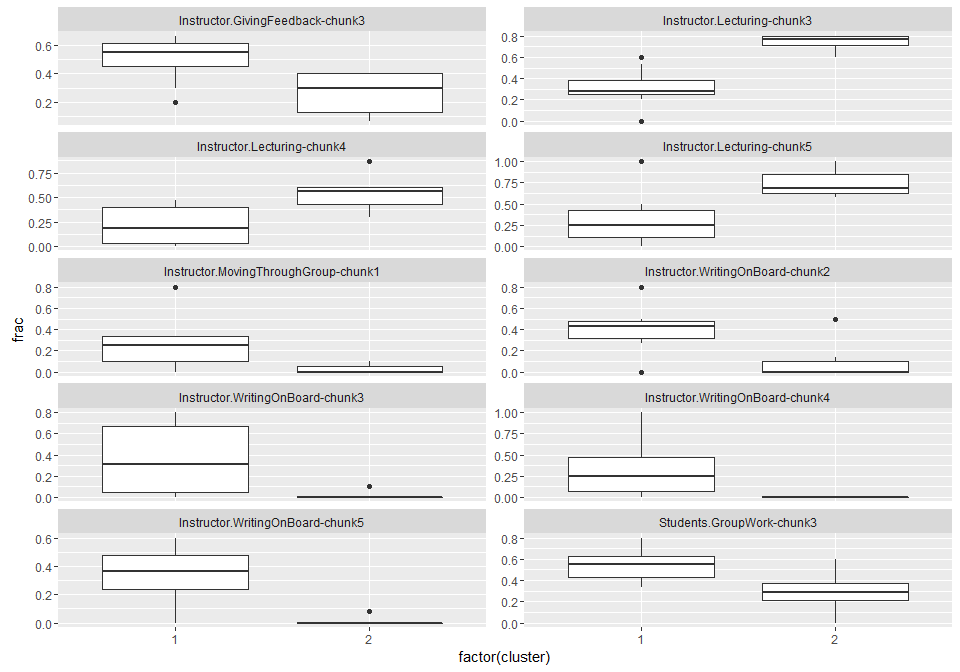
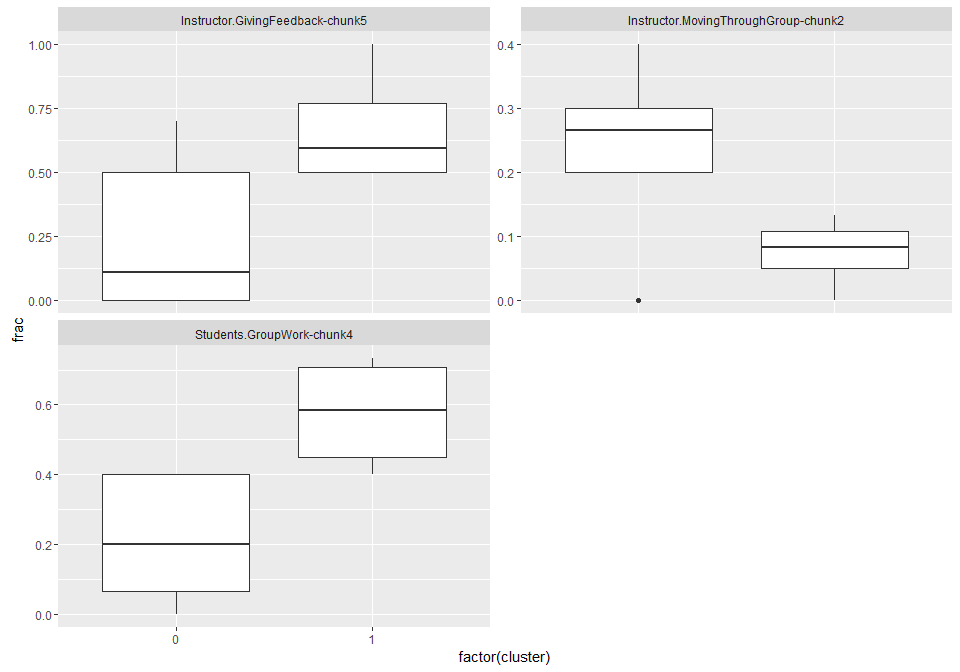
Updated rule association mining plots

diff --git a/COPUS-paper-10minsegments.md b/COPUS-paper-10minsegments.md
@@ -1,7 +1,7 @@
 # COPUS Analysis for publication
 Tony Hui  
 
-# Processing the data
+## 1 Processing the data
 
 
 ```
@@ -10,9 +10,9 @@ Tony Hui
 
 
 
-## Cluster ignoring time
+## 2 Cluster ignoring time
 
-### Cluster of all classes
+### 2.1 Cluster of all classes
 
 The x-axis labels represent course-instructor-semester pairings:
 
@@ -24,53 +24,51 @@ Fractional time was calculated as a mean of all observations
 
 ![](COPUS-paper-10minsegments_files/figure-html/all_years_all_times_cluster-1.png)
 
-### Cluster of first-year classes
+### 2.2 Cluster of first-year classes
 
 
 
 ![](COPUS-paper-10minsegments_files/figure-html/first_year_all_times_cluster-1.png)
 
-## Cluster, slicing time into 10-minute intervals
+## 3 Cluster, slicing time into 10-minute intervals
 
-### All classes, sliced, clustered
+### 3.1 All classes, sliced, clustered
 
 
 
 ![](COPUS-paper-10minsegments_files/figure-html/all_years_sliced_times_cluster-1.png)
 
-### first year classes, sliced, clustered
+### 3.2 first year classes, sliced, clustered
 
 
 
 ![](COPUS-paper-10minsegments_files/figure-html/first_year_sliced_times_cluster-1.png)
 
-## Cluster within classes using different chunks as features
+## 4 Cluster within classes using different chunks as features
 
-### first year and second year classes, sliced, clustered based on classes X chunk*metric
+### 4.1 first year and second year classes, sliced, clustered based on classes X chunk*metric
 
 
 
 ![](COPUS-paper-10minsegments_files/figure-html/jr_sliced_times_cluter_rows-1.png)
 
-#### No clustering on columns
+### 4.2 No clustering on columns
 
 ![](COPUS-paper-10minsegments_files/figure-html/unnamed-chunk-8-1.png)
 
-#### No clustering on rows
+### 4.3 No clustering on rows
 
 ![](COPUS-paper-10minsegments_files/figure-html/unnamed-chunk-9-1.png)
 
-### first year only
+### 4.4 first year only
 
 ![](COPUS-paper-10minsegments_files/figure-html/unnamed-chunk-10-1.png)
 
-## Rule association mining
+## 5 Rule association mining
 
-From first and second year classes
+From first year classes only
 
-![](COPUS-paper-10minsegments_files/figure-html/unnamed-chunk-11-1.png)
 
-**Cluster one** on the right, **cluster two** on the left
 
 
 ```
@@ -80,20 +78,16 @@ From first and second year classes
 See which "features" are significantly different between the two clusters
 
 
-|measure                              |  pval|   fdr|
-|:------------------------------------|-----:|-----:|
-|Instructor.Lecturing-chunk3          | 0.000| 0.000|
-|Instructor.WritingOnBoard-chunk5     | 0.003| 0.117|
-|Instructor.Lecturing-chunk4          | 0.009| 0.342|
-|Instructor.Lecturing-chunk5          | 0.009| 0.342|
-|Instructor.GivingFeedback-chunk3     | 0.019| 0.684|
-|Instructor.WritingOnBoard-chunk3     | 0.022| 0.770|
-|Instructor.WritingOnBoard-chunk2     | 0.024| 0.816|
-|Instructor.WritingOnBoard-chunk4     | 0.030| 0.990|
-|Students.GroupWork-chunk3            | 0.035| 1.000|
-|Instructor.MovingThroughGroup-chunk1 | 0.036| 1.000|
+|measure                                 |  pval|  fdr|
+|:---------------------------------------|-----:|----:|
+|Students.GroupWork-chunk4               | 0.018| 0.72|
+|Instructor.GivingFeedback-chunk5        | 0.062| 1.00|
+|Instructor.MovingThroughGroup-chunk2    | 0.077| 1.00|
+|Instructor.Lecturing-chunk1             | 0.105| 1.00|
+|Instructor.MovingThroughGroup-chunk4    | 0.132| 1.00|
+|Instructor.AskingClickerQuestion-chunk4 | 0.144| 1.00|
 
-Visualize the chunks with pvalue < 0.05
+Visualize the chunks with pvalue < 0.1
 
 ![](COPUS-paper-10minsegments_files/figure-html/unnamed-chunk-14-1.png)
 
